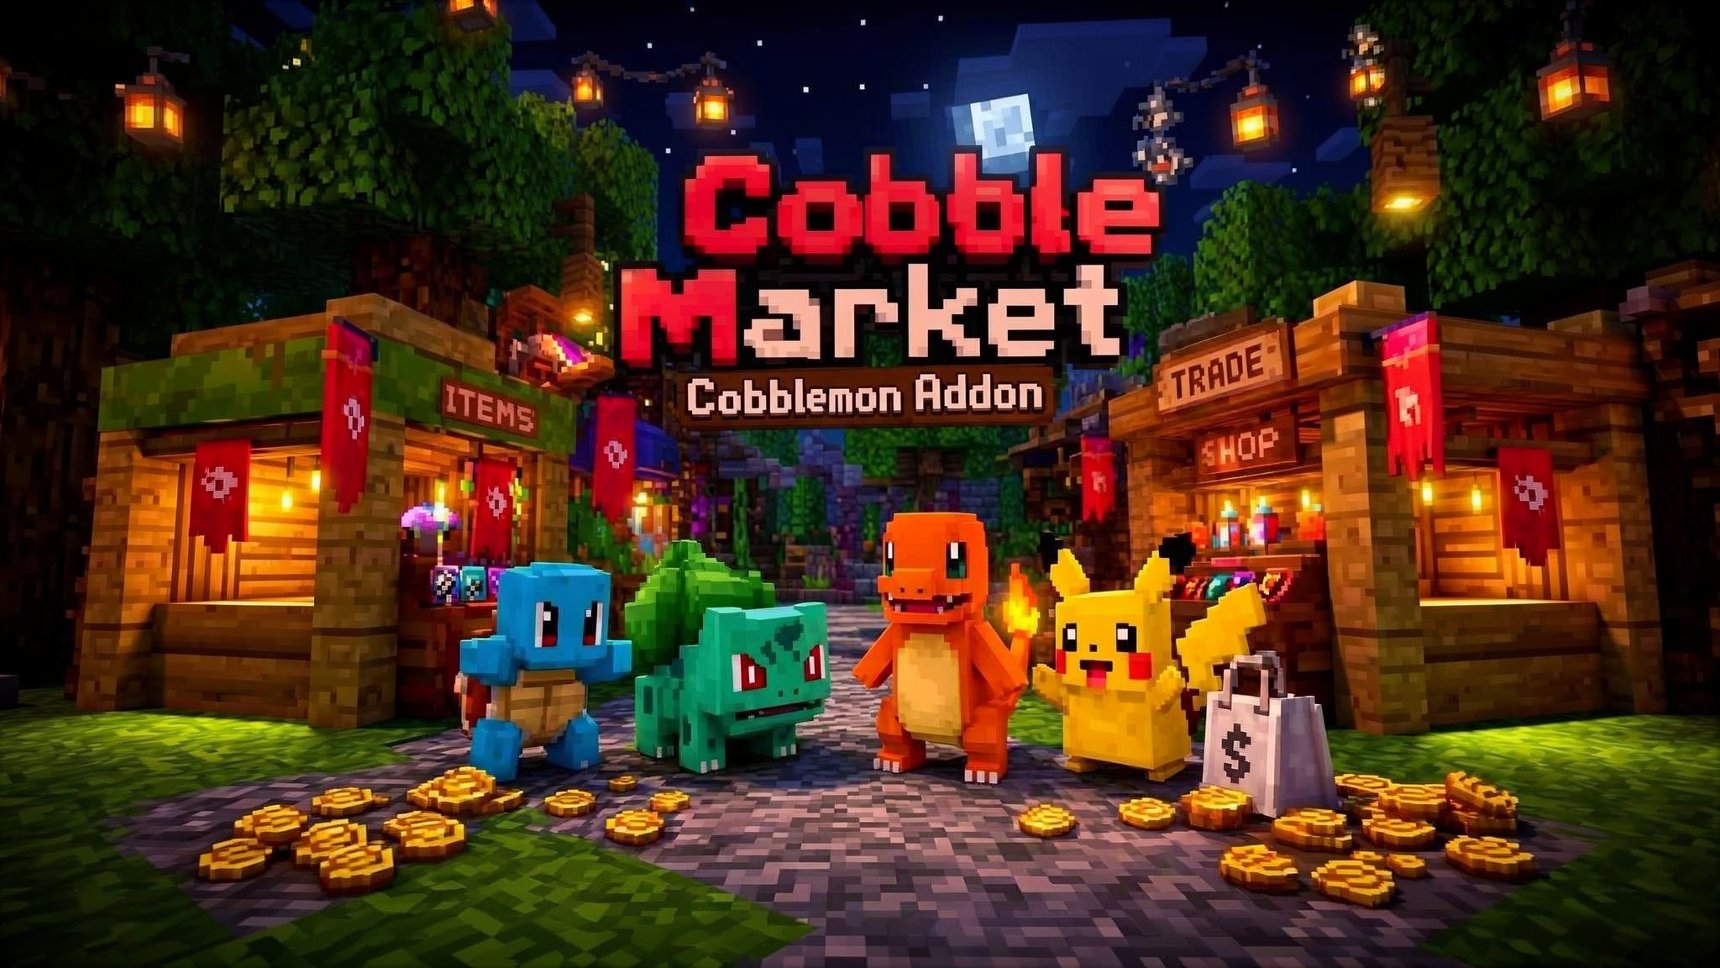
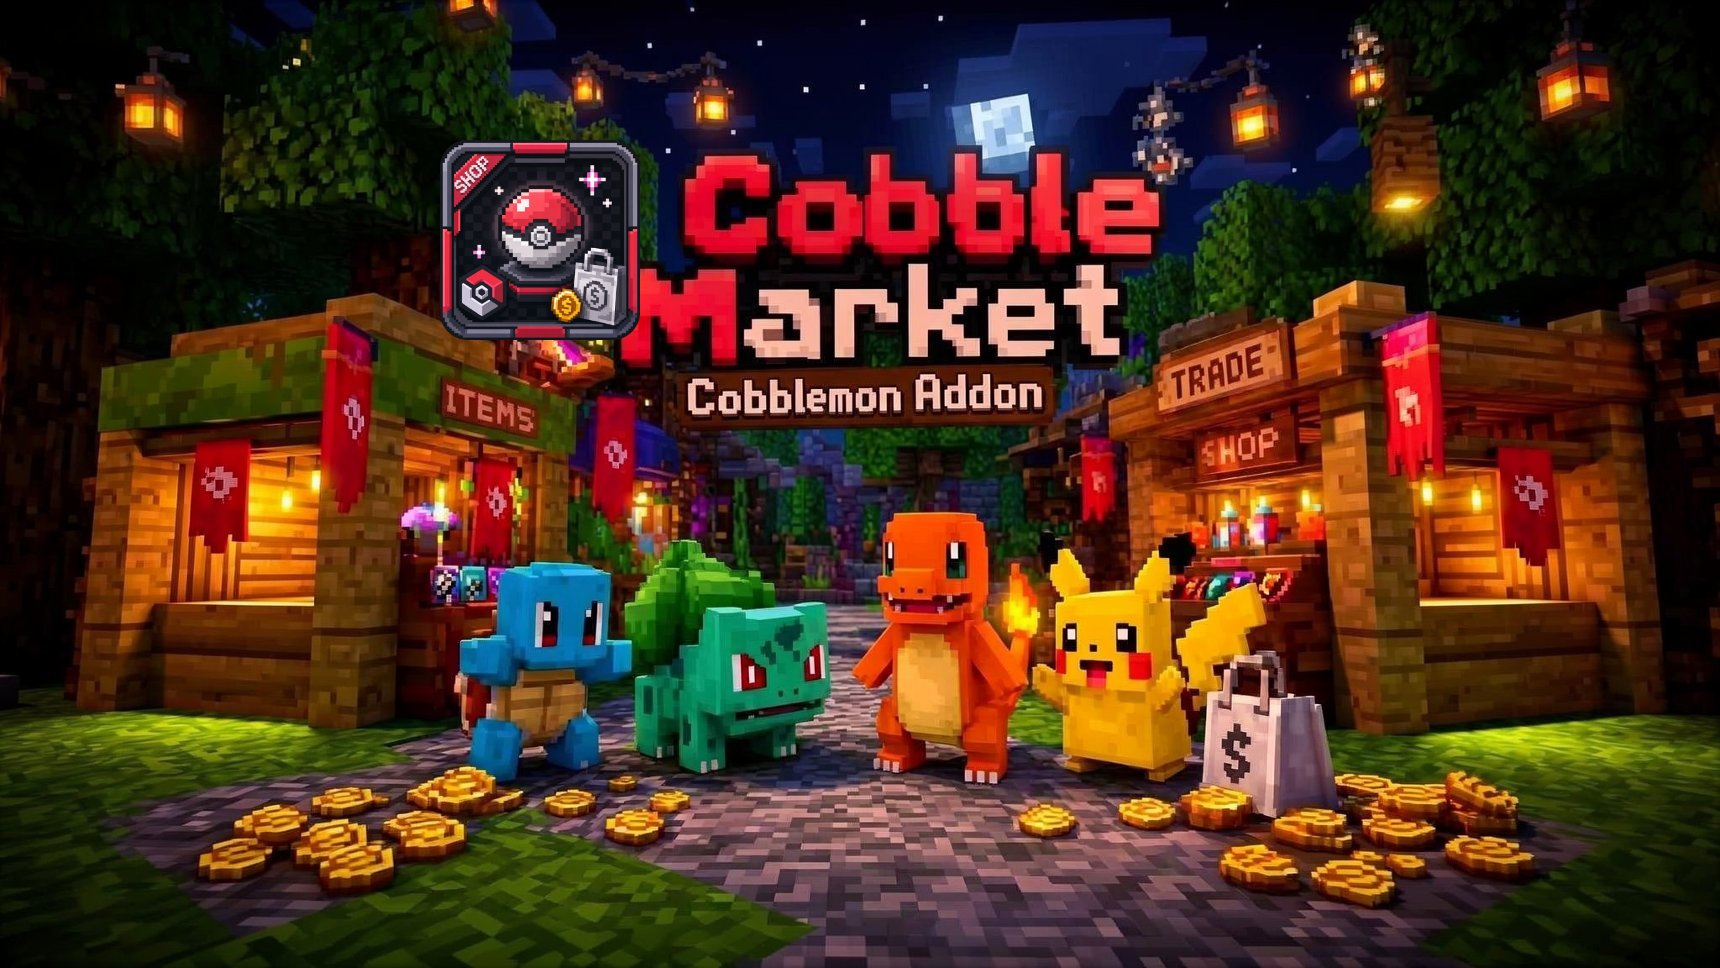
feat: 封面 C 左侧加图标（合成进背景图）；Ken Burns 推镜改为鼠标环视

Changed region(s): [[0.2465, 0.124, 0.3698, 0.3719]]

diff --git a/docs/index.html b/docs/index.html
@@ -891,23 +891,30 @@
     .cover::after {
       content: '';
       position: absolute;
-      /* 比封面大一圈：Ken Burns 要放大 6%，视差还要上下移动，
-         图层本身不留余量的话，一动就会从边缘露出底色 */
-      inset: -6%;
+      /* 余量分工：**上下 -6%** 给视差（纵向移动最多 ±90px）+ 缩放；
+         **左右 -3%** 只给缩放（Ken Burns 放大 6% → 每边需要 3%）。
+         原来四边一律 -6%，左右白留了一倍，白白吃掉一圈视野。 */
+      inset: -6% -3%;
       z-index: 0;
       background-image: url('cover-bg.jpg');
       background-size: cover;
       background-position: center calc(50% + var(--cm-parallax));
       background-repeat: no-repeat;
-      animation: cm-kenburns 28s ease-in-out infinite alternate;
+      /* ===== 鼠标环视（原 Ken Burns 推镜已弃用）=====
+         画面静止，但随鼠标位置平移 —— 鼠标往哪边移，画面就往哪边挪，露出那一侧的余量。
+         像把头探进画面里看，比自动推镜更有互动感。
+         位移量由 JS 写入 --cm-look-x / --cm-look-y（见「封面鼠标环视」那段脚本）。
+         ⚠ 为什么弃用自动推镜：那是**时间驱动**的缓慢缩放，每帧位移只有零点零几像素，
+           在 Firefox 上会被合成器吸附到整像素、看起来一卡一卡；而且 will-change、
+           去掉 var() 都救不了。改成**用户驱动**后同样的位移量就没这个问题 ——
+           人手动移动时对位移不敏感，也不会一直空跑。 */
+      transform: translate(var(--cm-look-x, 0px), var(--cm-look-y, 0px));
+      transition: transform 0.35s ease-out;   /* 跟手，但不生硬 */
+      will-change: transform;
     }
     /* 深色模式换夜间封面（同构图，见上面 .cover 的说明） */
     body.dark .cover::after {
       background-image: url('cover-bg-dark.jpg');
-    }
-    @keyframes cm-kenburns {
-      from { transform: scale(1); }
-      to   { transform: scale(1.06); }
     }
 
     /* ===== 封面内容错峰浮现 =====
@@ -2542,6 +2549,36 @@
       window.addEventListener('resize', sync, { passive: true });
       window.__cmCoverParallax = sync;
       sync();   // 首屏也要定一次态：非首页要立刻带背景，不能等第一次滚动
+    })();
+
+    // ===== 封面鼠标环视 =====
+    // 鼠标在视口里的相对位置 → 背景层平移。方向是**反向**：鼠标右移画面左移，
+    // 露出右侧那截余量 —— 像探头往右边看（若改成同向，会变成"画面被鼠标推着走"，
+    // 观感很怪，用户确认要反向）。
+    // ⚠ 位移上限 RANGE 必须小于背景层的余量，否则会从边缘露出底色 ——
+    //   余量见样式表的 inset: -6% -3%（1280×720 下约 上下43px / 左右38px）。
+    // ⚠ 用 rAF 节流：mousemove 触发极频繁，不节流会白跑样式计算。
+    (function () {
+      var RANGE = 18;
+      var raf = 0, lx = 0, ly = 0;
+
+      function apply() {
+        raf = 0;
+        var cover = document.querySelector('.cover');
+        if (!cover) return;
+        cover.style.setProperty('--cm-look-x', lx.toFixed(1) + 'px');
+        cover.style.setProperty('--cm-look-y', ly.toFixed(1) + 'px');
+      }
+
+      window.addEventListener('mousemove', function (e) {
+        if (window.innerWidth <= 640) return;          // 小屏（触屏）不做
+        var cover = document.querySelector('.cover');
+        if (!cover || cover.getBoundingClientRect().bottom < 0) return;  // 封面已滚出视野
+        // 取负 = 反向：画面朝鼠标的**反方向**偏，读起来就是"视线跟着鼠标看过去"
+        lx = -((e.clientX / window.innerWidth) * 2 - 1) * RANGE;
+        ly = -((e.clientY / window.innerHeight) * 2 - 1) * RANGE;
+        if (!raf) raf = requestAnimationFrame(apply);
+      }, { passive: true });
     })();
 
     // ⚠ 别在这里给 hashchange 挂「立即 scrollTo(0,0)」：
